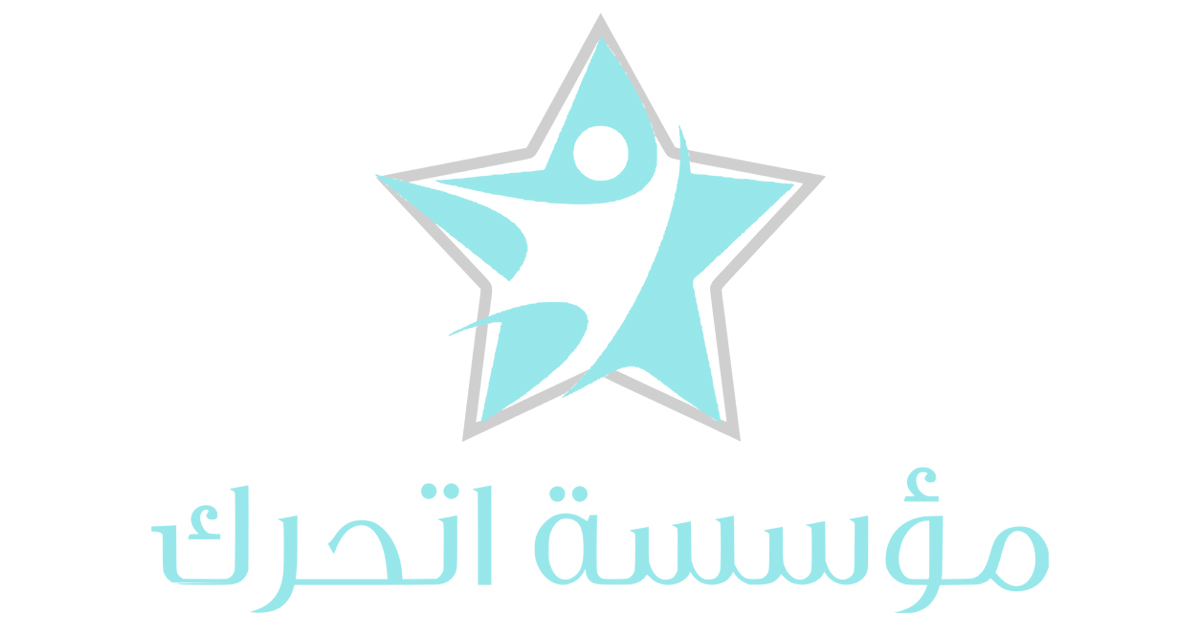
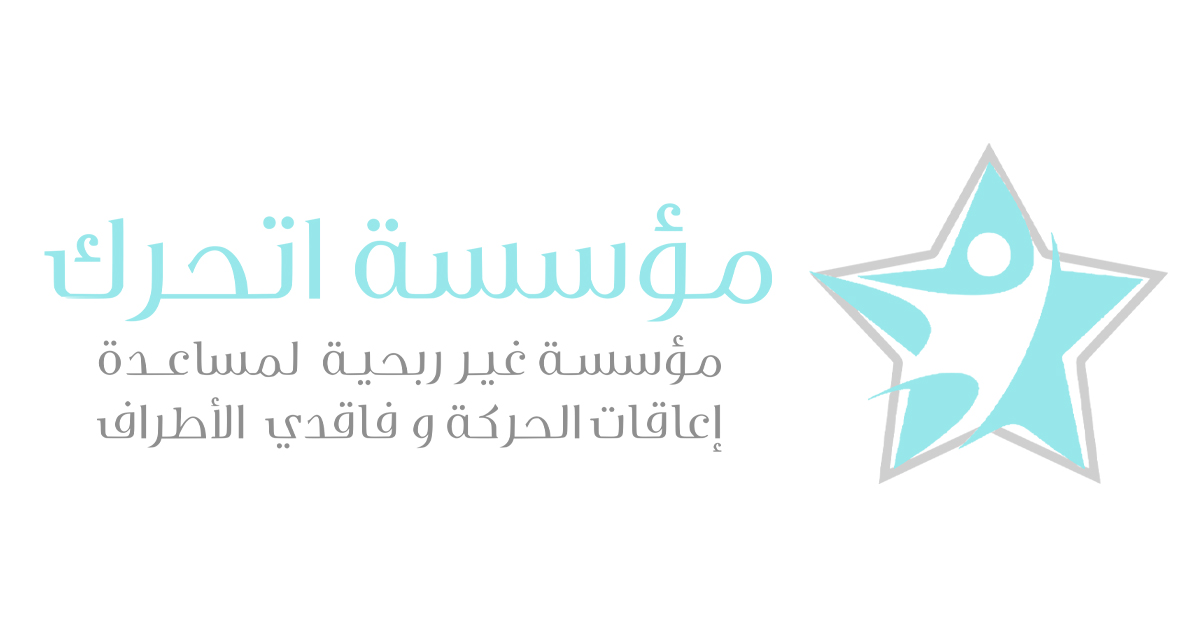
Add files via upload

Changed region(s): [[0.0308, 0.0303, 0.7092, 0.7273], [0.1233, 0.2424, 0.9867, 1.0]]

diff --git a/index.html b/index.html
@@ -3,7 +3,7 @@
   <head>
     <meta charset="UTF-8" />
     <meta name="viewport" content="width=device-width, initial-scale=1.0" />
-    <title>اتحرك</title>
+    <title>مؤسسة اتحرك</title>
     <link rel="icon" href="app/pics/favicon.png" />
     <link
       href="https://cdn.jsdelivr.net/npm/bootstrap@5.3.3/dist/css/bootstrap.min.css"
@@ -16,9 +16,12 @@
 
     <!-- Metadata -->
 
-    <meta property="og:title" content="اتحرك" />
+    <meta property="og:title" content="مؤسسة اتحرك" />
     <meta property="og:image" content="app/pics/thumbnail.jpg" />
-    <meta property="og:description" content="جمعية خيرية" />
+    <meta
+      property="og:description"
+      content="مؤسسة غير ربحية لمساعدة إعاقات الحركة وفاقدي الأطراف"
+    />
     <meta property="og:url" content="https://www.etharrak.org/" />
     <meta property="og:image:width" content="1200" />
     <meta property="og:image:height" content="627" />
@@ -7642,7 +7645,7 @@
             </svg>
             <p class="text-end">تواصل معنا ليصلك مندوبنا</p>
             <p class="text-start num">
-              <a href="tel:201116333374+">201116333374+</a>
+              <a href="https://wa.me/+201116333374">201116333374+</a>
             </p>
           </div>
           <button type="button" class="button" data-bs-dismiss="modal">
